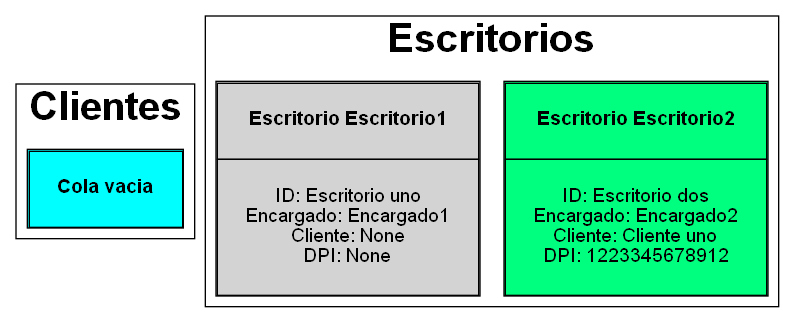
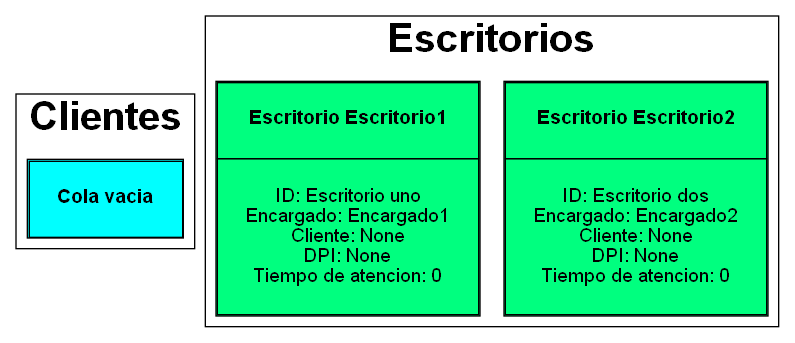
[add] atender cliente

diff --git a/AttentionPoint.py b/AttentionPoint.py
@@ -79,8 +79,9 @@ class AttentionPoint:
                 if nodeaux.getDesk().getActive() == True:  
                     text += f'color="springgreen" label=<<table cellspacing="0" cellpadding="20"><tr><td><b>Escritorio {nodeaux.getDesk().getCode()}</b></td></tr>'
                 else:
-                    text += f'label=<<table cellspacing="0" cellpadding="20"><tr><td><b>Escritorio {nodeaux.getDesk().getCode()}</b></td></tr>'
-                text += f'<tr><td>ID: {nodeaux.getDesk().getId()}<br/>Encargado: {nodeaux.getDesk().getManager()}<br/>Cliente: {nodeaux.getDesk().getClient().getName()}<br/>DPI: {nodeaux.getDesk().getClient().getDpi()}</td></tr></table>>]'
+                    text += f'label=<<table cellspacing="0" cellpadding="20"><tr><td><b>Escritorio {nodeaux.getDesk().getCode()}</b><br/>Fuera de Servicio</td></tr>'
+                text += f'<tr><td>ID: {nodeaux.getDesk().getId()}<br/>Encargado: {nodeaux.getDesk().getManager()}<br/>Cliente: {nodeaux.getDesk().getClient().getName()}<br/>DPI: {nodeaux.getDesk().getClient().getDpi()}\n'
+                text += f'<br/>Tiempo de atencion: {nodeaux.getDesk().getClient().getTransactions().getTime()}</td></tr></table>>]'
                 nodeaux=nodeaux.getNext()
             text+=' label=<<b>Escritorios</b>>}'
         text+='}'
@@ -104,3 +105,20 @@ class AttentionPoint:
                 nodedesk.getDesk().setClient(client=nodeclient.getClient())
                 return Fore.GREEN + f'Cliente {nodeclient.getClient().getName()} al escritorio {nodedesk.getDesk().getId()}'
         return Fore.RED + 'No hay ningun escritorio disponible'
+
+    def attendClient(self):
+        min = self.__desks.getMinClientTime()
+
+        if min != False:
+            nodedesk = self.__desks.getFirst()
+            while nodedesk:
+                if nodedesk.getDesk().getClient().getTransactions().getTime() == min:
+                    clientout = nodedesk.getDesk().clientOut()
+                    print(Fore.GREEN + f'El cliente {clientout.getName()} fue atendido')
+                    self.callClient()
+                else:
+                    if nodedesk.getDesk().getClient().getDpi() is not None:
+                        nodedesk.getDesk().getClient().getTransactions().setTime(nodedesk.getDesk().getClient().getTransactions().getTime()-min)  
+                nodedesk = nodedesk.getNext()
+        else: 
+            print(Fore.RED + 'No existe nigun cliente en los escritorios')

diff --git a/ListConfig.py b/ListConfig.py
@@ -1,6 +1,7 @@
 from colorama import Fore
 from Config import Config
 from ListEnterprise import ListEnterprise
+from ListTransaction import ListTransaction
 from NodeConfig import NodeConfig
 
 class ListConfig:
@@ -65,6 +66,7 @@ class ListConfig:
                                 validclient = True
                                 print(Fore.WHITE + f'Revisando al cliente {clientconfig.getClient().getName()}, DPI {clientconfig.getClient().getDpi()}')
                                 transconfig = clientconfig.getClient().getTransactions().getFirst()
+                                transactionconfig = ListTransaction()
                                 while transconfig:
                                     validtrans = False
                                     nodetrans = nodeenterprise.getEnterprise().getTransactions().getFirst()
@@ -74,11 +76,13 @@ class ListConfig:
                                             print(Fore.CYAN + f'Transacción {transconfig.getTransaction().getCode()} aceptada.')
                                             transconfig.getTransaction().setName(nodetrans.getTransaction().getName())
                                             transconfig.getTransaction().setTime(nodetrans.getTransaction().getTime())
+                                            transactionconfig.insert(transaction=transconfig.getTransaction())
                                         nodetrans = nodetrans.getNext()
                                     if not validtrans:
                                         print(Fore.RED + f'La transacción {transconfig.getTransaction().getCode()} no está disponible.')
                                         validclient = False
                                     transconfig = transconfig.getNext()
+                                clientconfig.getClient().setTransactions(transactions=transactionconfig)
                                 if validclient:
                                     nodepoint.getPoint().getClients().insert(clientconfig.getClient())
                                     print(Fore.CYAN + 'Cliente agregado correctamente')

diff --git a/ListTransaction.py b/ListTransaction.py
@@ -5,6 +5,7 @@ from Transaction import Transaction
 class ListTransaction:
     def __init__(self):
         self.__first = NodeTransaction()
+        self.__time = 0
 
     def getFirst(self):
         return self.__first
@@ -12,10 +13,14 @@ class ListTransaction:
     def setFirst(self, first = NodeTransaction()):
         self.__first = first
 
+    def setTime(self, time):
+        self.__time = time
+
     def insert(self, transaction = Transaction()):
         
         if self.__first.getTransaction().getCode() == None:
             self.__first = NodeTransaction(transaction=transaction)
+            self.__time += transaction.getTime() * transaction.getQuantity()
             return True
 
         nodeaux=self.__first
@@ -28,6 +33,7 @@ class ListTransaction:
             print(Fore.RED + f'La transacción {transaction.getCode()} ya existe en la lista')
             return False
         nodeaux.setNext(NodeTransaction(transaction=transaction))
+        self.__time += transaction.getTime() * transaction.getQuantity()
         return True
 
     def toString(self):
@@ -43,15 +49,7 @@ class ListTransaction:
         return string
 
     def getTime(self):
-        if self.__first.getTransaction().getCode() == None:
-            return 0
-        
-        nodeaux = self.__first
-        time = 0
-        while nodeaux:
-            time += nodeaux.getTransaction().getTime() * nodeaux.getTransaction().getQuantity()
-            nodeaux = nodeaux.getNext()
-        return time
+        return self.__time
 
     def getTransactionByCode(self, code):
         nodeaux = self.__first

diff --git a/StackDesk.py b/StackDesk.py
@@ -117,3 +117,21 @@ class StackDesk:
                 self.__active -= 1
                 return True
             nodeaux = nodeaux.getNext()
+
+    def getMinClientTime(self):
+        if self.__first.getDesk().getCode() == None:
+            return False
+
+        nodeaux = self.__first
+        min = None
+        while nodeaux:
+            if nodeaux.getDesk().getClient().getDpi() is not None and min is None:
+                min = nodeaux.getDesk().getClient().getTransactions().getTime()
+            elif nodeaux.getDesk().getClient().getDpi() is not None and min is not None:
+                if min > nodeaux.getDesk().getClient().getTransactions().getTime():
+                    min = nodeaux.getDesk().getClient().getTransactions().getTime()
+            nodeaux = nodeaux.getNext()
+        if min is None:
+            return False
+        else:
+            return min

diff --git a/ServiceDesk.py b/ServiceDesk.py
@@ -54,6 +54,11 @@ class ServiceDesk:
         if self.__attentionmintime > client.getTransactions().getTime() or self.__attentionmintime == 0:
             self.__attentionmintime = client.getTransactions().getTime()
 
+    def clientOut(self):
+        clientout = self.__client
+        self.__client = Client()
+        return clientout
+
     def toString(self):
         text = Fore.WHITE + f'Escritorio de servicio: {self.__code}\n'
         if self.__clientscount != 0:

diff --git a/main.py b/main.py
@@ -171,6 +171,8 @@ def main():
                             testpoint.callClient()
                     elif optionmanager == 3:
                         testpoint.getDesks().desactiveDesk()
+                    elif optionmanager == 4:
+                        testpoint.attendClient()
     except Exception as e:
             print(Fore.RED + f'{e}')
 main()
